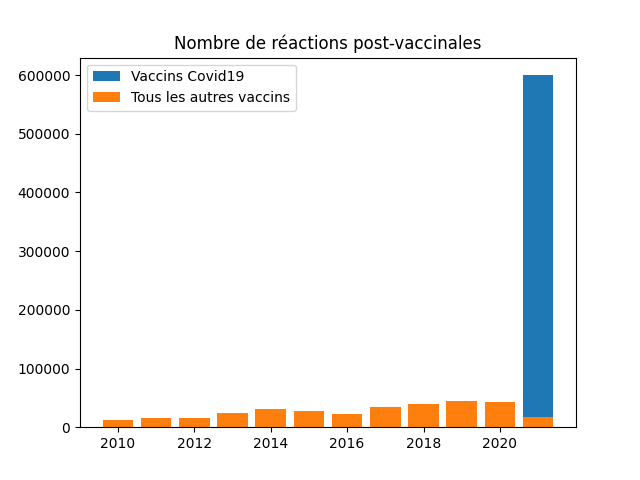
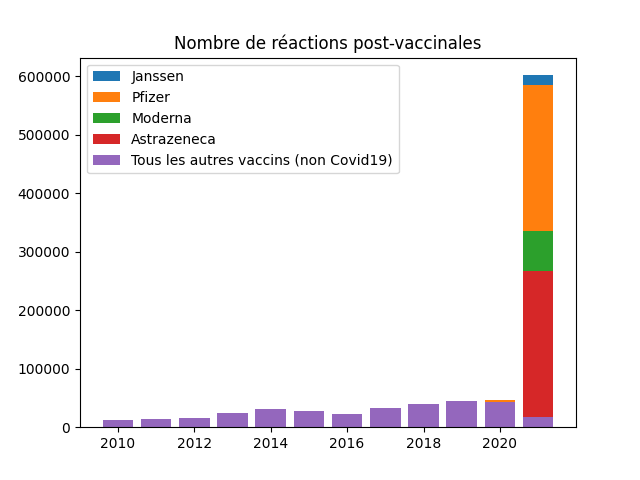
reactions_by_year_c19 split c19 vaccines

diff --git a/run.py b/run.py
@@ -4,6 +4,7 @@ import re
 import time
 import shutil
 import unidecode
+import collections as col
 import csv
 from contextlib import contextmanager
 import sqlite3
@@ -310,18 +311,28 @@ def plot_reactions_by_year_c19(severe=False, death=False):
         title = "Nombre de morts post-vaccinales"
     plt.title(title)
     with db_connect() as conn:
-        req = 'SELECT is_c19_vax, year, count(*) FROM reports'
+        req = 'SELECT subst, year, is_c19_vax, COUNT(*) FROM reports '
         if severe:
             req += f' WHERE severe=1'
         if death:
             req += f' WHERE death=1'
-        req += ' GROUP BY is_c19_vax, year'
+        req += ' GROUP BY subst, year, is_c19_vax'
         rows = conn.cursor().execute(req)
-        res = {}
-        for is_c19_vax, year, nb in rows:
-            res.setdefault(bool(is_c19_vax), {})[year] = nb
-        plt.bar(res[True].keys(), [a+b for a, b in zip(res[False].values(), res[True].values())], label="Vaccins Covid19")
-        plt.bar(res[False].keys(), res[False].values(), label="Tous les autres vaccins")
+        def _get_label(subst, is_c19_vax):
+            if not is_c19_vax: return "Tous les autres vaccins (non Covid19)"
+            elif 'ASTRAZENECA' in subst: return 'Astrazeneca'
+            elif 'MODERNA' in subst: return 'Moderna'
+            elif 'PFIZER' in subst: return 'Pfizer'
+            elif 'JANSSEN' in subst: return 'Janssen'
+            else: raise Exception(f"Unknown subst '{subst}'")
+        res = col.defaultdict(lambda: col.defaultdict(int))
+        for subst, year, is_c19_vax, nb in rows:
+            res[_get_label(subst, is_c19_vax)][year] += nb
+        years = range(2010, 2021+1)
+        labels = ['Tous les autres vaccins (non Covid19)', 'Astrazeneca', 'Moderna', 'Pfizer', 'Janssen']
+        cum_bars = _cum_bars(years, labels, res)
+        for label in reversed(labels):
+            plt.bar(years, [cum_bars[label].get(year,0) for year in years], label=label)
         plt.legend()
         fname = 'reactions_by_year_c19.png'
         if severe:
@@ -329,6 +340,16 @@ def plot_reactions_by_year_c19(severe=False, death=False):
         if death:
             fname = 'reactions_by_year_c19_death.png'
         plt.savefig(os.path.join(HERE, f'results/{fname}'))
+
+
+def _cum_bars(xs, labels, vals):
+    res = col.defaultdict(lambda: col.defaultdict(int))
+    for x in xs:
+        cum_val = 0
+        for label in labels:
+            res[label][x] = vals[label][x] + cum_val
+            cum_val = res[label][x]
+    return res
 
 
 
